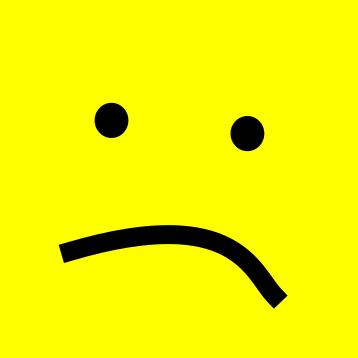
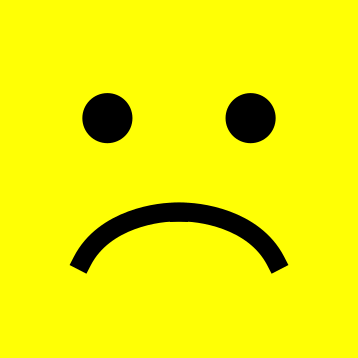
Adjust face textures

Changed region(s): [[0.1536, 0.5531, 0.7989, 0.8603], [0.6145, 0.2458, 0.7682, 0.4302], [0.2151, 0.2458, 0.3687, 0.3994]]

diff --git a/Hatchery/demo/head/main.js b/Hatchery/demo/head/main.js
@@ -2,9 +2,9 @@ import * as THREE from 'three';
 
 const scene = new THREE.Scene();
 const camera = new THREE.PerspectiveCamera( 75, window.innerWidth / window.innerHeight, 0.1, 1000 );
-camera.position.x = 30;
-camera.position.y = 12;
-camera.position.z = -17;
+camera.position.x = 40;
+camera.position.y = 5;
+camera.position.z = 0;
 camera.lookAt(0, 0, 0);
 
 const renderer = new THREE.WebGLRenderer();
@@ -18,6 +18,7 @@ var HeadShape = {
     textureCrisis: new THREE.TextureLoader().load("crisis.png"),
     textureFaceSmile: new THREE.TextureLoader().load("face-smile.png"),
     textureFaceSad: new THREE.TextureLoader().load("face-sad.png"),
+    textureFaceTired: new THREE.TextureLoader().load("face-tired.png"),
 
     castShadow: true,
     receiveShadow: false, // If true, the shadow casted on itself is not perfect.
@@ -43,11 +44,11 @@ var HeadShape = {
 
         this.PI2 = 2 * Math.PI;
         this.PIper2 = Math.PI / 2;
-        this.FaceFrom = - Math.PI / 4;
-        this.FaceTo = Math.PI / 4;
+        this.FaceTo = Math.PI / 6;
+        this.FaceFrom = - this.FaceTo;
         this.FaceWidth = this.FaceTo - this.FaceFrom;
-        this.HeadFrom = Math.PI / 4;
-        this.HeadTo = this.PI2 - Math.PI / 4;
+        this.HeadFrom = this.FaceTo;
+        this.HeadTo = this.PI2 - this.FaceTo;
 
         var cylinderAngle;
         for(cylinderAngle = 0; ; cylinderAngle += this.cylinderAngleDelta) {
@@ -614,7 +615,11 @@ var HeadShape = {
 
 
 HeadShape.init();
-HeadShape.addToScene(scene)
+HeadShape.addToScene(scene);
+
+// HeadShape.rotate(0, Math.PI/2, 0);
+HeadShape.position(0, -10, 0);
+
 
 scene.background = new THREE.Color(0x000000);
 renderer.shadowMapEnabled = true
@@ -648,17 +653,22 @@ var textureIndex = 0;
 function animate() {
     requestAnimationFrame(animate);
 
-    HeadShape.rotate(0, 0, 0.01);
-
     counter++;
-    if(counter > 20) {
+    if(counter <= 40) {
+        HeadShape.rotate(0, 0, -0.005);
+    } else if(counter <= 80) {
+        HeadShape.rotate(0, 0, +0.005);
+    } else {
       // change face texture
-      textureIndex = 1 - textureIndex;
+      textureIndex++;
 
-      if(textureIndex == 0) {
+      if(textureIndex >= 3) {
         HeadShape.setFace(HeadShape.textureFaceSmile);
-      } else {
+        textureIndex = 0;
+      } else if(textureIndex == 1) {
         HeadShape.setFace(HeadShape.textureFaceSad);
+      } else {
+        HeadShape.setFace(HeadShape.textureFaceTired);
       }
 
       counter = 0;

diff --git a/Hatchery/src/main/java/hu/csega/demo/head/head.head.js b/Hatchery/src/main/java/hu/csega/demo/head/head.head.js
@@ -2,9 +2,9 @@ import * as THREE from 'three';
 
 const scene = new THREE.Scene();
 const camera = new THREE.PerspectiveCamera( 75, window.innerWidth / window.innerHeight, 0.1, 1000 );
-camera.position.x = 30;
-camera.position.y = 12;
-camera.position.z = -17;
+camera.position.x = 40;
+camera.position.y = 5;
+camera.position.z = 0;
 camera.lookAt(0, 0, 0);
 
 const renderer = new THREE.WebGLRenderer();
@@ -18,6 +18,7 @@ var HeadShape = {
     textureCrisis: new THREE.TextureLoader().load("crisis.png"),
     textureFaceSmile: new THREE.TextureLoader().load("face-smile.png"),
     textureFaceSad: new THREE.TextureLoader().load("face-sad.png"),
+    textureFaceTired: new THREE.TextureLoader().load("face-tired.png"),
 
     castShadow: true,
     receiveShadow: false, // If true, the shadow casted on itself is not perfect.
@@ -43,11 +44,11 @@ var HeadShape = {
 
         this.PI2 = 2 * Math.PI;
         this.PIper2 = Math.PI / 2;
-        this.FaceFrom = - Math.PI / 4;
-        this.FaceTo = Math.PI / 4;
+        this.FaceTo = Math.PI / 6;
+        this.FaceFrom = - this.FaceTo;
         this.FaceWidth = this.FaceTo - this.FaceFrom;
-        this.HeadFrom = Math.PI / 4;
-        this.HeadTo = this.PI2 - Math.PI / 4;
+        this.HeadFrom = this.FaceTo;
+        this.HeadTo = this.PI2 - this.FaceTo;
 
         var cylinderAngle;
         for(cylinderAngle = 0; ; cylinderAngle += this.cylinderAngleDelta) {
@@ -614,4 +615,8 @@ var HeadShape = {
 
 
 HeadShape.init();
-HeadShape.addToScene(scene)
+HeadShape.addToScene(scene);
+
+// HeadShape.rotate(0, Math.PI/2, 0);
+HeadShape.position(0, -10, 0);
+

diff --git a/Hatchery/src/main/java/hu/csega/demo/head/head.tail.js b/Hatchery/src/main/java/hu/csega/demo/head/head.tail.js
@@ -31,17 +31,22 @@ var textureIndex = 0;
 function animate() {
     requestAnimationFrame(animate);
 
-    HeadShape.rotate(0, 0, 0.01);
-
     counter++;
-    if(counter > 20) {
+    if(counter <= 40) {
+        HeadShape.rotate(0, 0, -0.005);
+    } else if(counter <= 80) {
+        HeadShape.rotate(0, 0, +0.005);
+    } else {
       // change face texture
-      textureIndex = 1 - textureIndex;
+      textureIndex++;
 
-      if(textureIndex == 0) {
+      if(textureIndex >= 3) {
         HeadShape.setFace(HeadShape.textureFaceSmile);
-      } else {
+        textureIndex = 0;
+      } else if(textureIndex == 1) {
         HeadShape.setFace(HeadShape.textureFaceSad);
+      } else {
+        HeadShape.setFace(HeadShape.textureFaceTired);
       }
 
       counter = 0;
